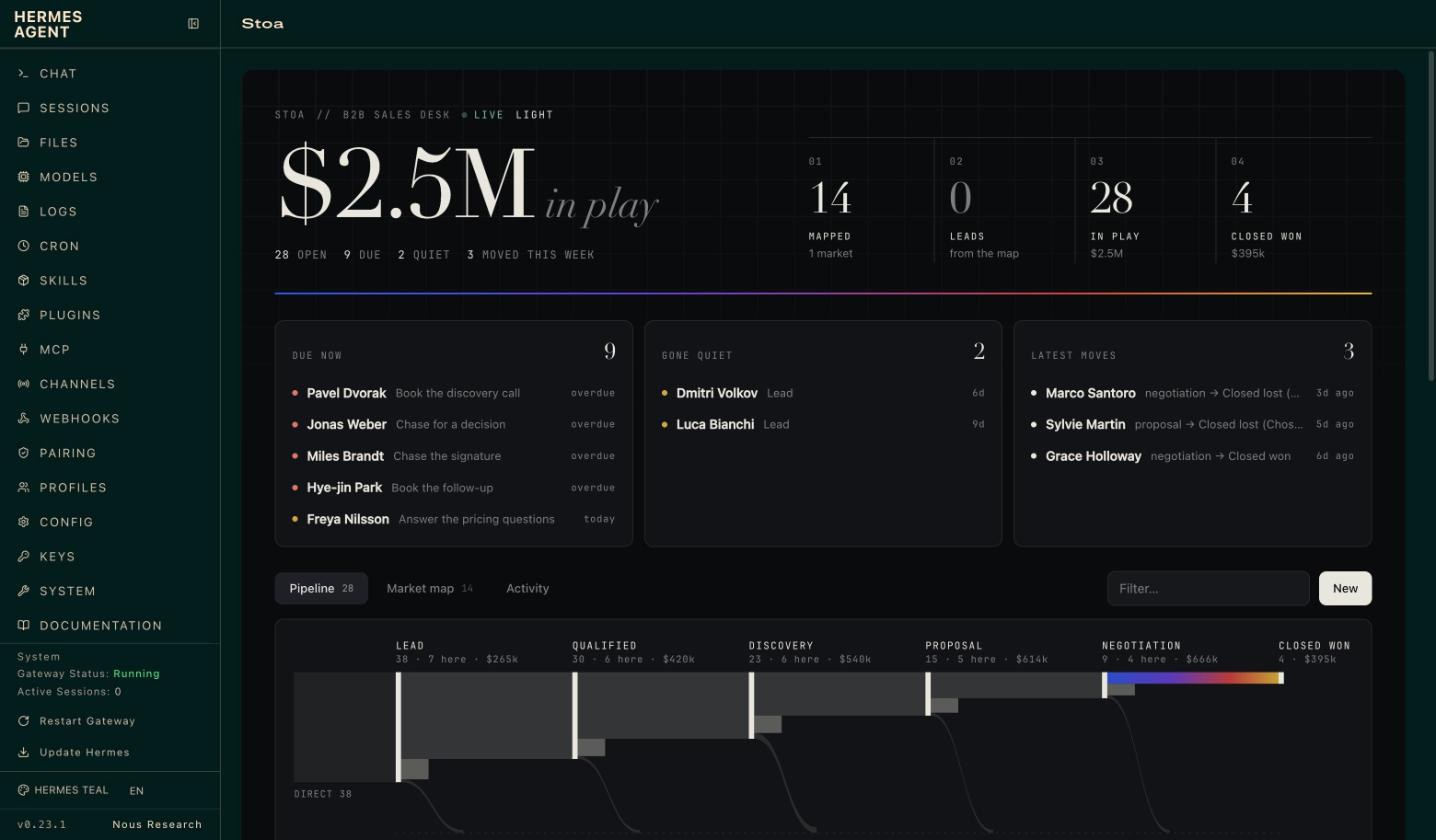
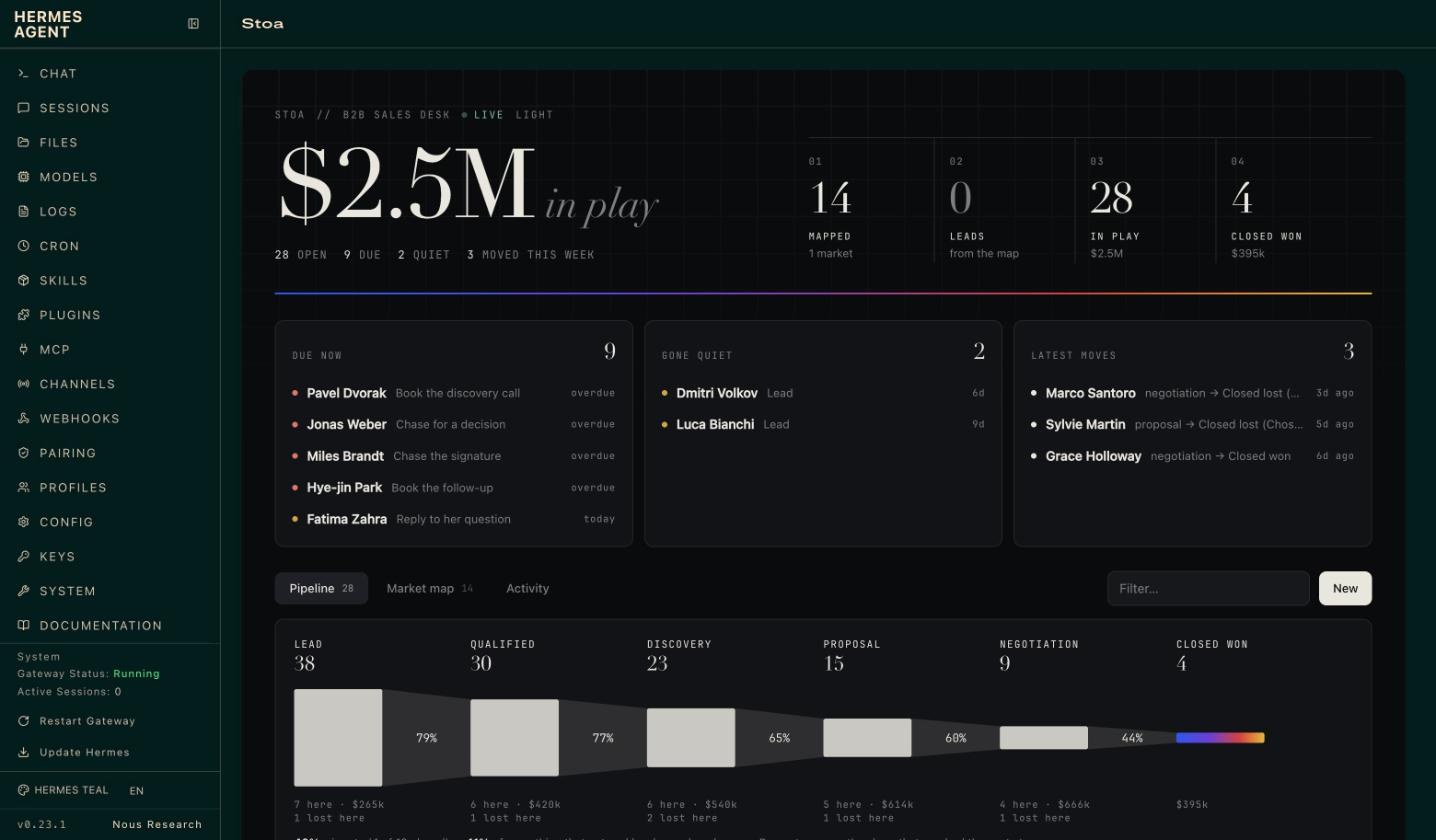
Stoa 0.6.3: a funnel with stage-to-stage conversion replaces the flow diagram (dashboard tab and Webapp), and filters in the Webapp pane and page

diff --git a/desktop/plugin.js b/desktop/plugin.js
@@ -10,10 +10,28 @@
  * click calls for writing, one line is sent into the open chat (host.composer.submit, the same as
  * typing it) and the agent writes the draft there.
  */
-import { host, queryClient, useQuery } from '@hermes/plugin-sdk'
+import { atom, host, queryClient, useQuery, useValue } from '@hermes/plugin-sdk'
 import { createElement as h, useState } from 'react'
 
 let rest = null // ctx.rest, set in register()
+let storage = null // ctx.storage, set in register()
+
+// What the pane and the page are narrowed to. One store, so both show the same thing.
+const NO_FILTER = { text: '', owner: '', group: '', due: false, quiet: false }
+const $filter = atom({ ...NO_FILTER })
+function setFilter(patch) {
+  const next = { ...$filter.get(), ...patch }
+  $filter.set(next)
+  if (storage) storage.set('filter', next)
+}
+const filtering = f => Boolean(f.text || f.owner || f.group || f.due || f.quiet)
+function matches(deal, f) {
+  if (f.owner && deal.owner !== f.owner) return false
+  if (f.group && deal.group !== f.group) return false
+  if ((f.due || f.quiet) && !((f.due && deal.due) || (f.quiet && deal.stale && !deal.due))) return false
+  if (!f.text) return true
+  return [deal.name, deal.company, deal.group, deal.next_step, deal.owner, deal.stage_label].join(' ').toLowerCase().includes(f.text.toLowerCase())
+}
 const STATE = ['stoa', 'state']
 const refresh = () => queryClient.invalidateQueries({ queryKey: ['stoa'] })
 
@@ -159,9 +177,6 @@ const CSS = `
 .stoa-tab[data-on="1"] { background: var(--ui-row-active-background, var(--ui-row-hover-background)); color: var(--ui-text-primary); font-weight: 550; }
 .stoa-split { display: grid; grid-template-columns: minmax(0, 1fr); gap: 20px; align-items: start; }
 .stoa-split[data-side="1"] { grid-template-columns: minmax(0, 1fr) 360px; }
-.stoa-flow { margin: -2px 2px 10px; }
-.stoa-flow u { display: block; height: 3px; margin: 0 0 5px; border-radius: 2px; background: var(--ui-stroke-secondary); text-decoration: none; overflow: hidden; }
-.stoa-flow u i { display: block; height: 100%; background: var(--ui-text-primary); }
 .stoa-board { display: grid; grid-auto-flow: column; grid-auto-columns: minmax(176px, 1fr); gap: 12px; overflow-x: auto; padding-bottom: 8px; }
 .stoa-colhead { display: flex; justify-content: space-between; align-items: baseline; gap: 8px; padding: 0 2px 8px; }
 .stoa-card { display: block; width: 100%; margin-bottom: 8px; padding: 10px 12px; border: 1px solid var(--ui-stroke-secondary); border-radius: 8px; background: var(--ui-bg-card); color: inherit; font: inherit; text-align: left; cursor: pointer; }
@@ -178,6 +193,22 @@ const CSS = `
 .stoa-rate u i { display: block; height: 100%; background: var(--ui-text-primary); }
 .stoa-reading { max-width: 70ch; margin: 8px 0 0; color: var(--ui-text-secondary); white-space: pre-line; }
 .stoa-h2 { margin: 26px 0 8px; font-size: 15px; font-weight: 600; }
+.stoa-filters { display: flex; flex-wrap: wrap; gap: 6px; align-items: center; }
+.stoa-filters .stoa-input { flex: 1 1 120px; min-width: 0; height: 28px; padding: 0 9px; border: 1px solid var(--ui-stroke-secondary); border-radius: 6px; background: transparent; color: var(--ui-text-primary); font: inherit; font-size: 12px; outline: none; }\n.stoa-filters .stoa-input:focus { border-color: var(--ui-stroke-primary); }\n.stoa-filters .stoa-input::placeholder { color: var(--ui-text-quaternary); }
+.stoa-filters .stoa-select { max-width: 150px; }
+.stoa-toggle { height: 28px; padding: 0 9px; border: 1px solid var(--ui-stroke-secondary); border-radius: 6px; background: transparent; color: var(--ui-text-secondary); font: inherit; font-size: 12px; cursor: pointer; }
+.stoa-toggle[data-on="1"] { border-color: var(--ui-text-primary); color: var(--ui-text-primary); background: var(--ui-row-hover-background); }
+.stoa-funnel { margin: 0 0 20px; padding: 16px 18px 12px; border: 1px solid var(--ui-stroke-secondary); border-radius: 10px; background: var(--ui-bg-card); }
+.stoa-funnel svg { display: block; width: 100%; height: auto; overflow: visible; }
+.stoa-funnel text { font-family: ui-monospace, "SF Mono", Menlo, monospace; }
+.stoa-fn-block { fill: var(--ui-text-primary); opacity: .82; }
+.stoa-fn-link { fill: var(--ui-text-primary); opacity: .13; }
+.stoa-fn-label { font-size: 9.5px; letter-spacing: .12em; fill: var(--ui-text-tertiary); }
+.stoa-fn-num { font-size: 15px; font-weight: 600; fill: var(--ui-text-primary); font-family: inherit !important; }
+.stoa-fn-pct { font-size: 11px; fill: var(--ui-text-primary); }
+.stoa-fn-sub { font-size: 9px; letter-spacing: .06em; fill: var(--ui-text-tertiary); }
+.stoa-funnel-foot { display: flex; flex-wrap: wrap; gap: 4px 18px; margin-top: 6px; font-size: 12px; color: var(--ui-text-tertiary); }
+.stoa-funnel-foot b { color: var(--ui-text-primary); font-weight: 600; }
 .stoa-list { max-height: 340px; overflow-y: auto; margin-top: 10px; }
 .stoa-pick { display: flex; gap: 9px; align-items: flex-start; padding: 7px 0; border-top: 1px solid var(--ui-stroke-tertiary); cursor: pointer; }
 .stoa-pick:first-child { border-top: 0; }
@@ -307,6 +338,63 @@ function Review({ id }) {
         (result.added || 0) + ' added · ' + (result.updated || 0) + ' updated' + (result.left ? ' · ' + result.left + ' left out' : '')) : null)
 }
 
+// -- narrowing what is shown ----------------------------------------------------------------------
+function Filters({ state }) {
+  const f = useValue($filter)
+  const open = state.deals.filter(deal => deal.status === 'open')
+  const owners = [...new Set(open.map(deal => deal.owner).filter(Boolean))].sort()
+  const groups = [...new Set(open.map(deal => deal.group).filter(Boolean))].sort()
+  const terms = state.playbook.terms
+  return h('div', { className: 'stoa-filters' },
+    h('input', { className: 'stoa-input', value: f.text, placeholder: 'Filter…', 'aria-label': 'Filter by text', onChange: event => setFilter({ text: event.target.value }) }),
+    owners.length > 1 ? h('select', { className: 'stoa-select', value: f.owner, 'aria-label': 'Owner', onChange: event => setFilter({ owner: event.target.value }) },
+      [h('option', { key: '', value: '' }, 'Everyone')].concat(owners.map(owner => h('option', { key: owner, value: owner }, owner)))) : null,
+    groups.length > 1 ? h('select', { className: 'stoa-select', value: f.group, 'aria-label': cap(terms.group), onChange: event => setFilter({ group: event.target.value }) },
+      [h('option', { key: '', value: '' }, 'All ' + terms.groups)].concat(groups.map(group => h('option', { key: group, value: group }, group)))) : null,
+    h('button', { type: 'button', className: 'stoa-toggle', 'data-on': f.due ? '1' : '0', onClick: () => setFilter({ due: !f.due }) }, 'Due'),
+    h('button', { type: 'button', className: 'stoa-toggle', 'data-on': f.quiet ? '1' : '0', onClick: () => setFilter({ quiet: !f.quiet }) }, 'Quiet'),
+    filtering(f) ? h('button', { type: 'button', className: 'stoa-toggle', onClick: () => setFilter({ ...NO_FILTER }) }, 'Clear') : null)
+}
+
+// -- the funnel: how many reach each stage, and what share moves on ------------------------------
+function Funnel({ state }) {
+  const flow = state.flow, pb = state.playbook
+  if (!flow || !flow.total) return null
+  const steps = flow.stages.map(stage => ({ label: stage.label, reached: stage.reached, here: stage.here, lost: stage.lost, value: stage.value }))
+    .concat([{ label: flow.won_label, reached: flow.won, won: true, value: flow.won_value }])
+  const W = 1000, H = 184, mid = 96, tall = 92, col = W / steps.length, block = col * 0.5
+  const height = step => Math.max(3, (tall * step.reached) / flow.total)
+  const closed = flow.won + flow.lost
+  const parts = []
+  steps.forEach((step, index) => {
+    const x = index * col, tallness = height(step), next = steps[index + 1]
+    parts.push(h('rect', { key: 'b' + index, className: 'stoa-fn-block', x, y: mid - tallness / 2, width: block, height: tallness, rx: 2,
+      style: step.won ? { fill: 'url(#stoa-fn-won)', opacity: 1 } : undefined }))
+    if (next) {
+      const after = height(next), right = (index + 1) * col
+      parts.push(h('polygon', { key: 'l' + index, className: 'stoa-fn-link',
+        points: [x + block, mid - tallness / 2, right, mid - after / 2, right, mid + after / 2, x + block, mid + tallness / 2].join(' ') }))
+      parts.push(h('text', { key: 'p' + index, className: 'stoa-fn-pct', x: x + block + (col - block) / 2, y: mid + 4, textAnchor: 'middle' },
+        step.reached ? Math.round((100 * next.reached) / step.reached) + '%' : '–'))
+    }
+    parts.push(h('text', { key: 't' + index, className: 'stoa-fn-label', x, y: 11 }, step.label.toUpperCase().slice(0, Math.max(6, Math.floor(col / 7.6)))))
+    parts.push(h('text', { key: 'n' + index, className: 'stoa-fn-num', x, y: 30 }, String(step.reached)))
+    parts.push(h('text', { key: 's' + index, className: 'stoa-fn-sub', x, y: mid + tall / 2 + 20 },
+      step.won ? (step.value ? money(step.value, pb.currency) : '') : step.here + ' here' + (step.value ? ' · ' + money(step.value, pb.currency) : '')))
+    if (step.lost) parts.push(h('text', { key: 'x' + index, className: 'stoa-fn-sub', x, y: mid + tall / 2 + 33 }, step.lost + ' lost here'))
+  })
+  return h('div', { className: 'stoa-funnel' },
+    h('svg', { viewBox: '0 0 ' + W + ' ' + H, role: 'img', 'aria-label': 'How many records reach each stage, and what share moves on' },
+      h('defs', null, h('linearGradient', { id: 'stoa-fn-won', x1: '0', y1: '0', x2: '1', y2: '0' },
+        h('stop', { offset: '0', style: { stopColor: 'var(--ui-blue)' } }), h('stop', { offset: '0.4', style: { stopColor: 'var(--ui-purple)' } }),
+        h('stop', { offset: '0.75', style: { stopColor: 'var(--ui-red)' } }), h('stop', { offset: '1', style: { stopColor: 'var(--ui-yellow)' } }))),
+      parts),
+    h('div', { className: 'stoa-funnel-foot' },
+      h('span', null, h('b', null, closed ? Math.round((100 * flow.won) / closed) + '%' : '–'), ' win rate' + (closed ? ' (' + flow.won + ' of ' + closed + ' closed)' : '')),
+      h('span', null, h('b', null, Math.round((100 * flow.won) / flow.total) + '%'), ' of everything that entered has been ' + flow.won_label.toLowerCase()),
+      h('span', null, 'Percentages are the share that reached the next stage; ' + pb.terms.deals + ' still in a stage have not had their chance yet.')))
+}
+
 // -- the pane beside the conversation ------------------------------------------------------------
 function Row({ deal, sub, right, tone, open, onClick }) {
   return h('button', { type: 'button', className: 'stoa-row', 'data-open': open ? '1' : '0', onClick },
@@ -319,10 +407,12 @@ function Row({ deal, sub, right, tone, open, onClick }) {
 
 function Pane() {
   const query = useDesk()
+  const filter = useValue($filter)
   const [openId, setOpenId] = useState('')
   if (!query.data) return h(Unavailable, { error: query.error, loading: query.isLoading })
   const state = query.data, pb = state.playbook, totals = state.totals
-  const open = state.deals.filter(deal => deal.status === 'open')
+  const everyone = state.deals.filter(deal => deal.status === 'open')
+  const open = everyone.filter(deal => matches(deal, filter))
   const due = open.filter(deal => deal.due).sort((a, b) => (a.next_due < b.next_due ? -1 : 1))
   const quiet = open.filter(deal => deal.stale && !deal.due)
   const toggle = id => setOpenId(openId === id ? '' : id)
@@ -337,7 +427,9 @@ function Pane() {
         h('div', { className: 'stoa-figure' }, money(totals.open_value, pb.currency) || String(totals.open), h('small', null, totals.open_value ? 'in play' : pb.terms.deals + ' open')),
         h('div', { className: 'stoa-sub' }, [plural(totals.open, 'open', 'open'), totals.due ? totals.due + ' due' : '', totals.stale ? totals.stale + ' quiet' : '']
           .filter(Boolean).join(' · ')),
-        h('div', { className: 'stoa-rule' })),
+        h('div', { className: 'stoa-rule' }),
+        state.deals.length ? h('div', { style: { marginTop: 10 } }, h(Filters, { state })) : null,
+        filtering(filter) ? h('div', { className: 'stoa-sub', style: { marginTop: 6 } }, 'Showing ' + open.length + ' of ' + everyone.length) : null),
       (state.intakes || []).length ? h('div', { className: 'stoa-sec' },
         h('div', { className: 'stoa-sechead' }, h('span', { className: 'stoa-eyebrow' }, 'Waiting for your review'), h('span', { className: 'stoa-num' }, state.intakes.length)),
         state.intakes.map(item => h('div', { key: item.id, style: { marginBottom: 8 } }, h(Review, { id: item.id })))) : null,
@@ -356,7 +448,7 @@ function Pane() {
             h('span', { className: 'stoa-num' }, here.length + (value ? ' · ' + money(value, pb.currency) : ''))),
           here.map(deal => listed(deal, stage.id + ':' + deal.id, [deal.company, deal.next_step].filter(Boolean).join(' · '), money(deal.value, pb.currency))))
       }),
-      calls.length ? h('div', { className: 'stoa-sec' },
+      calls.length && !filtering(filter) ? h('div', { className: 'stoa-sec' },
         h('div', { className: 'stoa-sechead' }, h('span', { className: 'stoa-eyebrow' }, 'First calls'), h('span', { className: 'stoa-num' }, state.markets[0].name)),
         calls.map(call => h('div', { key: call.id, className: 'stoa-row', style: { cursor: 'default' } },
           h('span', { className: 'stoa-grow' },
@@ -371,26 +463,20 @@ function Pane() {
 // -- the full page -------------------------------------------------------------------------------
 function Board({ state, openId, setOpenId }) {
   const pb = state.playbook
-  const open = state.deals.filter(deal => deal.status === 'open')
-  const won = state.deals.filter(deal => deal.status === 'won').sort((a, b) => (a.stage_at < b.stage_at ? 1 : -1))
+  const filter = useValue($filter)
+  const open = state.deals.filter(deal => deal.status === 'open' && matches(deal, filter))
+  const won = state.deals.filter(deal => deal.status === 'won' && matches(deal, { ...filter, due: false, quiet: false }))
+    .sort((a, b) => (a.stage_at < b.stage_at ? 1 : -1))
   const known = new Set(pb.stages.map(stage => stage.id))
   const strays = open.filter(deal => !known.has(deal.stage))
-  const flow = {}
-  state.flow.stages.forEach(stage => { flow[stage.id] = stage })
-  const total = Math.max(1, state.flow.total)
-  const columns = pb.stages.map(stage => ({ ...stage, here: open.filter(deal => deal.stage === stage.id), flow: flow[stage.id] }))
+  const columns = pb.stages.map(stage => ({ ...stage, here: open.filter(deal => deal.stage === stage.id) }))
     .concat(strays.length ? [{ id: '~other', label: 'Other stages', other: true, here: strays }] : [])
-    .concat([{ id: '~won', label: pb.won.label, won: true, here: won.slice(0, 8), flow: { reached: state.flow.won, lost: 0 } }])
+    .concat([{ id: '~won', label: pb.won.label, won: true, here: won.slice(0, 8) }])
   return h('div', { className: 'stoa-board' }, columns.map(column => {
     const value = column.here.reduce((sum, deal) => sum + (deal.value || 0), 0)
-    const reached = column.flow ? column.flow.reached : column.here.length
     return h('div', { key: column.id },
       h('div', { className: 'stoa-colhead' }, h('span', { className: 'stoa-eyebrow stoa-clip' }, column.label),
         h('span', { className: 'stoa-num' }, column.here.length + (value ? ' · ' + money(value, pb.currency) : ''))),
-      h('div', { className: 'stoa-flow' },
-        h('u', null, h('i', { style: { width: Math.round((100 * reached) / total) + '%' } })),
-        h('div', { className: 'stoa-sub' }, column.won ? reached + ' won' : column.other ? 'from another playbook'
-          : reached + ' reached' + (column.flow && column.flow.lost ? ' · ' + column.flow.lost + ' lost' : ''))),
       column.here.length ? column.here.map(deal => h('button', { type: 'button', key: deal.id, className: 'stoa-card', 'data-open': openId === deal.id ? '1' : '0',
         onClick: () => setOpenId(openId === deal.id ? '' : deal.id) },
         h('h5', null, h('span', { className: 'stoa-clip' }, deal.name), deal.value ? h('span', { className: 'stoa-num' }, money(deal.value, pb.currency)) : null),
@@ -474,9 +560,12 @@ function Page() {
     h('div', { className: 'stoa-tabs' }, [['pipeline', 'Pipeline'], ['market', 'Market map'], ['activity', 'Activity']].map(pair =>
       h('button', { type: 'button', key: pair[0], className: 'stoa-tab', 'data-on': tab === pair[0] ? '1' : '0', onClick: () => setTab(pair[0]) }, pair[1]))),
     tab === 'pipeline' ? (state.deals.length
-      ? h('div', { className: 'stoa-split', 'data-side': openId ? '1' : '0' },
-        h(Board, { state, openId, setOpenId }),
-        openId ? h(Record, { key: openId, id: openId, state, close: () => setOpenId('') }) : null)
+      ? h('div', null,
+        h(Funnel, { state }),
+        h('div', { style: { margin: '0 0 14px', maxWidth: 760 } }, h(Filters, { state })),
+        h('div', { className: 'stoa-split', 'data-side': openId ? '1' : '0' },
+          h(Board, { state, openId, setOpenId }),
+          openId ? h(Record, { key: openId, id: openId, state, close: () => setOpenId('') }) : null))
       : h('p', { className: 'stoa-sub' }, 'Nothing on the desk yet. Tell Hermes about a ' + pb.terms.deal + ', or ask it to map a market.')) : null,
     tab === 'market' ? (market
       ? h('div', null,
@@ -521,6 +610,8 @@ export default {
   name: 'Stoa',
   register(ctx) {
     rest = ctx.rest
+    storage = ctx.storage
+    $filter.set({ ...NO_FILTER, ...(ctx.storage.get('filter', {}) || {}) })
     // While the app is open the desk knows it can draw cards and maps in the conversation here.
     const hello = () => { ctx.rest('/hello', { method: 'POST', body: {} }).catch(() => {}) }
     hello()

diff --git a/dashboard/dist/index.js b/dashboard/dist/index.js
@@ -119,40 +119,41 @@
     return "M" + x0 + "," + y0 + " C" + m + "," + y0 + " " + m + "," + y1 + " " + x1 + "," + y1 +
       " L" + x1 + "," + (y1 + h1) + " C" + m + "," + (y1 + h1) + " " + m + "," + (y0 + h0) + " " + x0 + "," + (y0 + h0) + " Z";
   }
+  // The funnel: how many records reach each stage, and what share moves on to the next.
   function Flow(props) {
-    var f = props.state.flow, cur = props.state.playbook.currency;
+    var f = props.state.flow, pb = props.state.playbook, cur = pb.currency;
     if (!f || !f.total) return null;
-    var st = f.stages, n = st.length, W = 1000, top = 34, main = 104, rail = 186, H = 214, bar = 5;
-    var u = main / f.total, x = function (i) { return 96 + i * ((W - 96 - 70) / n); };
-    var parts = [];
-    // where records come from
-    var mapH = f.from_map * u, dirH = (f.total - f.from_map) * u;
-    if (f.from_map) parts.push(h("path", { key: "sm", className: "stoa-flow-in", d: ribbon(0, top, x(0), top, mapH, mapH) }));
-    if (f.total - f.from_map) parts.push(h("path", { key: "sd", className: "stoa-flow-in", d: ribbon(0, top + mapH + (f.from_map ? 10 : 0), x(0), top + mapH, dirH, dirH) }));
-    if (f.from_map) parts.push(h("text", { key: "tm", className: "stoa-flow-src", x: 0, y: top - 8 }, "MAP " + f.from_map));
-    if (f.total - f.from_map) parts.push(h("text", { key: "td", className: "stoa-flow-src", x: 0, y: top + mapH + dirH + (f.from_map ? 10 : 0) + 14 }, "DIRECT " + (f.total - f.from_map)));
-    st.forEach(function (s, i) {
-      var hgt = s.reached * u, onward = (i + 1 < n ? st[i + 1].reached : f.won) * u, stay = s.here * u, drop = s.lost * u;
-      var nx = i + 1 < n ? x(i + 1) : W - 70 + 0;
-      if (onward > 0) parts.push(h("path", { key: "o" + i, className: i + 1 < n ? "stoa-flow-on" : "stoa-flow-won", d: ribbon(x(i) + bar, top, nx, top, onward, onward) }));
-      if (stay > 0) parts.push(h("rect", { key: "h" + i, className: "stoa-flow-here", x: x(i) + bar, y: top + onward, width: 26, height: stay }));
-      if (drop > 0) parts.push(h("path", { key: "l" + i, className: "stoa-flow-lost", d: ribbon(x(i) + bar, top + onward + stay, x(i) + 64, rail - drop, drop, drop) }));
-      parts.push(h("rect", { key: "n" + i, className: "stoa-flow-node", x: x(i), y: top, width: bar, height: Math.max(hgt, 1) }));
-      parts.push(h("text", { key: "t" + i, className: "stoa-flow-label", x: x(i), y: 12 }, s.label.toUpperCase()));
-      parts.push(h("text", { key: "c" + i, className: "stoa-flow-count", x: x(i), y: 25 }, s.reached + (s.here ? "  ·  " + s.here + " here" : "") + (s.value ? "  ·  " + money(s.value, cur) : "")));
+    var steps = f.stages.map(function (s) { return { label: s.label, reached: s.reached, here: s.here, lost: s.lost, value: s.value }; })
+      .concat([{ label: f.won_label, reached: f.won, won: true, value: f.won_value }]);
+    var W = 1000, H = 184, mid = 96, tall = 92, col = W / steps.length, block = col * 0.5;
+    var height = function (step) { return Math.max(3, tall * step.reached / f.total); };
+    var closed = f.won + f.lost, parts = [];
+    steps.forEach(function (step, i) {
+      var x = i * col, hgt = height(step), next = steps[i + 1];
+      parts.push(h("rect", { key: "b" + i, className: step.won ? "stoa-fn-won" : "stoa-fn-block", x: x, y: mid - hgt / 2, width: block, height: hgt, rx: 2 }));
+      if (next) {
+        var after = height(next), right = (i + 1) * col;
+        parts.push(h("polygon", { key: "l" + i, className: "stoa-fn-link",
+          points: [x + block, mid - hgt / 2, right, mid - after / 2, right, mid + after / 2, x + block, mid + hgt / 2].join(" ") }));
+        parts.push(h("text", { key: "p" + i, className: "stoa-fn-pct", x: x + block + (col - block) / 2, y: mid + 4, textAnchor: "middle" },
+          step.reached ? Math.round(100 * next.reached / step.reached) + "%" : "–"));
+      }
+      parts.push(h("text", { key: "t" + i, className: "stoa-flow-label", x: x, y: 11 }, step.label.toUpperCase().slice(0, Math.max(6, Math.floor(col / 7.6)))));
+      parts.push(h("text", { key: "n" + i, className: "stoa-fn-num", x: x, y: 32 }, String(step.reached)));
+      parts.push(h("text", { key: "s" + i, className: "stoa-flow-count", x: x, y: mid + tall / 2 + 20 },
+        step.won ? (step.value ? money(step.value, cur) : "") : step.here + " here" + (step.value ? "  ·  " + money(step.value, cur) : "")));
+      if (step.lost) parts.push(h("text", { key: "x" + i, className: "stoa-flow-count", x: x, y: mid + tall / 2 + 33 }, step.lost + " lost here"));
     });
-    var wonH = Math.max(f.won * u, 1);
-    parts.push(h("rect", { key: "w", className: "stoa-flow-end", x: W - 70, y: top, width: bar, height: wonH }));
-    parts.push(h("text", { key: "wl", className: "stoa-flow-label", x: W - 70, y: 12 }, f.won_label.toUpperCase()));
-    parts.push(h("text", { key: "wc", className: "stoa-flow-count", x: W - 70, y: 25 }, f.won + (f.won_value ? "  ·  " + money(f.won_value, cur) : "")));
-    parts.push(h("line", { key: "r", className: "stoa-flow-rail", x1: x(0), x2: W - 70 + bar, y1: rail, y2: rail }));
-    parts.push(h("text", { key: "rl", className: "stoa-flow-src", x: x(0), y: rail + 16 }, f.lost_label.toUpperCase() + " " + f.lost));
     return h("div", { className: "stoa-flowwrap" },
-      h("svg", { className: "stoa-flow", viewBox: "0 0 " + W + " " + H, role: "img", "aria-label": "How records flow through the stages" },
+      h("svg", { className: "stoa-flow", viewBox: "0 0 " + W + " " + H, role: "img", "aria-label": "How many records reach each stage, and what share moves on" },
         h("defs", null, h("linearGradient", { id: "stoa-spec", x1: "0", y1: "0", x2: "1", y2: "0" },
           h("stop", { offset: "0", stopColor: "#2f56e8" }), h("stop", { offset: "0.38", stopColor: "#6a3fd6" }),
           h("stop", { offset: "0.72", stopColor: "#d6413f" }), h("stop", { offset: "1", stopColor: "#e6b93a" }))),
-        parts));
+        parts),
+      h("div", { className: "stoa-flowfoot" },
+        h("span", null, h("b", null, closed ? Math.round(100 * f.won / closed) + "%" : "–"), " win rate" + (closed ? " (" + f.won + " of " + closed + " closed)" : "")),
+        h("span", null, h("b", null, Math.round(100 * f.won / f.total) + "%"), " of everything that entered has been " + f.won_label.toLowerCase()),
+        h("span", null, "Percentages are the share that reached the next stage.")));
   }
 
   // -- pipeline board ---------------------------------------------------------------------------

diff --git a/dashboard/dist/style.css b/dashboard/dist/style.css
@@ -118,14 +118,14 @@
 /* flow: a Sankey of how far records get */
 .stoa-flowwrap { margin: 2px 0 26px; padding: 18px 20px 8px; background: var(--st-card); border: 1px solid var(--st-line); border-radius: 10px; }
 .stoa-flow { width: 100%; height: auto; display: block; overflow: visible; }
-.stoa-flow path, .stoa-flow rect { transition: d 0.6s ease, height 0.6s ease, y 0.6s ease; }
-.stoa-flow-on { fill: var(--st-ink); opacity: 0.16; }
-.stoa-flow-in { fill: var(--st-ink); opacity: 0.07; }
-.stoa-flow-won { fill: url(#stoa-spec); opacity: 0.85; }
-.stoa-flow-here { fill: var(--st-ink); opacity: 0.34; }
-.stoa-flow-lost { fill: var(--st-mute); opacity: 0.22; }
-.stoa-flow-node, .stoa-flow-end { fill: var(--st-ink); }
-.stoa-flow-rail { stroke: var(--st-line); stroke-width: 1; stroke-dasharray: 2 5; }
+.stoa-flow rect, .stoa-flow polygon { transition: height 0.6s ease, y 0.6s ease; }
+.stoa-fn-block { fill: var(--st-ink); opacity: 0.86; }
+.stoa-fn-link { fill: var(--st-ink); opacity: 0.13; }
+.stoa-fn-won { fill: url(#stoa-spec); }
+.stoa-fn-num { font-family: var(--st-serif, "Didot", "Bodoni 72", Georgia, serif) !important; font-size: 19px; fill: var(--st-ink); }
+.stoa-fn-pct { font-size: 11px; fill: var(--st-ink); }
+.stoa-flowfoot { display: flex; flex-wrap: wrap; gap: 4px 20px; margin: 4px 0 8px; font-size: 12px; color: var(--st-mute); }
+.stoa-flowfoot b { color: var(--st-ink); font-weight: 600; }
 .stoa-flow text { font-family: var(--st-mono); }
 .stoa-flow-label { font-size: 9.5px; letter-spacing: 0.12em; fill: var(--st-ink); }
 .stoa-flow-count, .stoa-flow-src { font-size: 9px; letter-spacing: 0.08em; fill: var(--st-mute); }

diff --git a/README.md b/README.md
@@ -75,13 +75,14 @@ In the Hermes Desktop app and the Webapp, Stoa sits beside the conversation.
 
 - **A pane beside the chat.** What needs you today, every stage, the first calls from your map.
   Tell Hermes *"I spoke to Marcus, follow up Thursday"* and the pane redraws as the agent saves it.
+  Narrow it by owner, by search or account, to what is due or what has gone quiet, or by any text.
 - **A click saves, then Hermes writes.** Press **Draft follow-up** or the stage button on a
   record. The change is saved at once, one line goes into the open chat as if you had typed it,
   and the draft comes back in the conversation.
 - **Cards in the conversation.** Ask *"show me Dana"* and the reply contains the live card, with
   its buttons, not a description of it. *"Show me the market map"* draws the map the same way.
-- **A page of its own.** **Stoa** in the sidebar opens the pipeline board, the market map with
-  its reading, and the activity log.
+- **A page of its own.** **Stoa** in the sidebar opens the funnel with its conversion rates, the
+  pipeline board with the same filters, the market map with its reading, and the activity log.
 - **Lists you send in.** Drop a file into the chat. The review appears in the conversation and in
   the pane: a tick box per row, what each one would add or change, and one **Apply** button.
 
@@ -102,13 +103,13 @@ already running when you installed Stoa, restart it once and the tab appears.
 
 - **The number that matters, live:** what is in play, beside mapped → leads → in play → won,
   with what is due and what has gone quiet underneath.
-- **Flow:** a Sankey diagram of how far records get: what moves on, what sits in each stage,
-  what is lost and where, and what is won.
+- **Funnel:** how many records reach each stage, the share that moves on to the next, what is
+  sitting in each stage and where records are lost, with the win rate beneath it.
 - **Pipeline board:** a column per playbook stage. Open a card to see its log, set the next
   step, log a call, advance it, close it with a reason, or snooze it.
 - **Market map:** every segment as a cluster, each company sized by fit and filled in once it
   is in the pipeline, with the map's reading beneath it: requirement rarity, who holds the
-  market, first calls, where segments meet, and a second Sankey from segment to what each
+  market, first calls, where segments meet, and a flow diagram from segment to what each
   company uses today. Open a company for its requirements checklist, buyers and source, then
   **Add to pipeline**. **Download page** saves the map as a web page.
 - **Activity:** everything that happened, from Slack clicks, the agent and the web alike.
